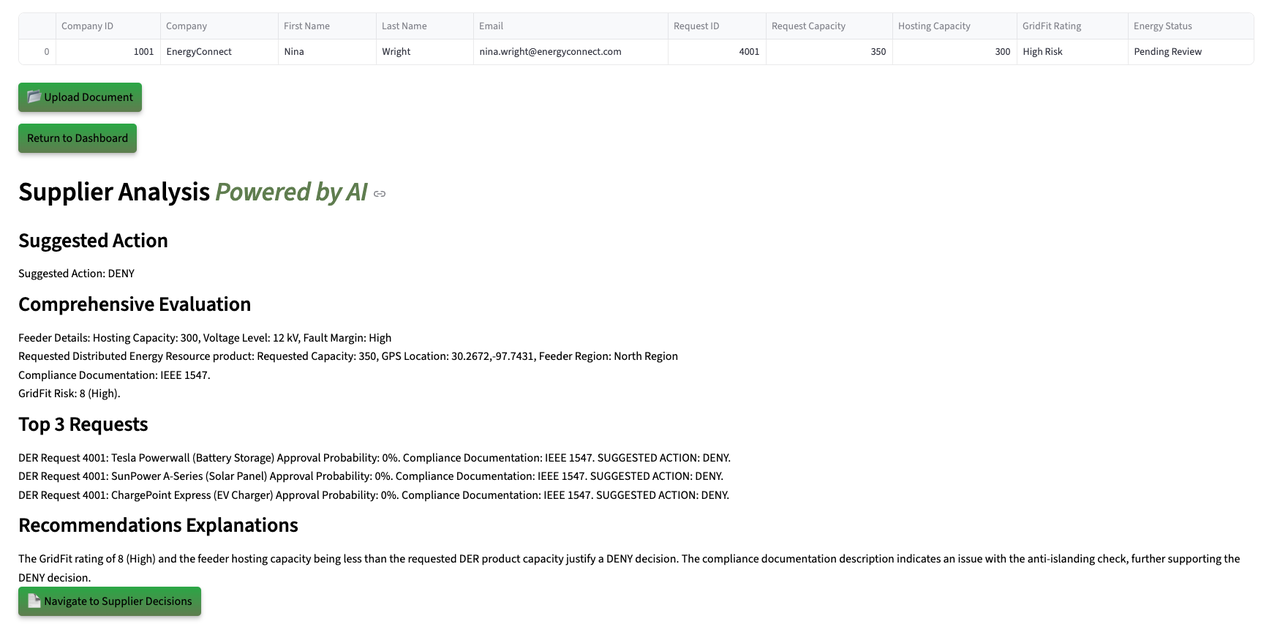
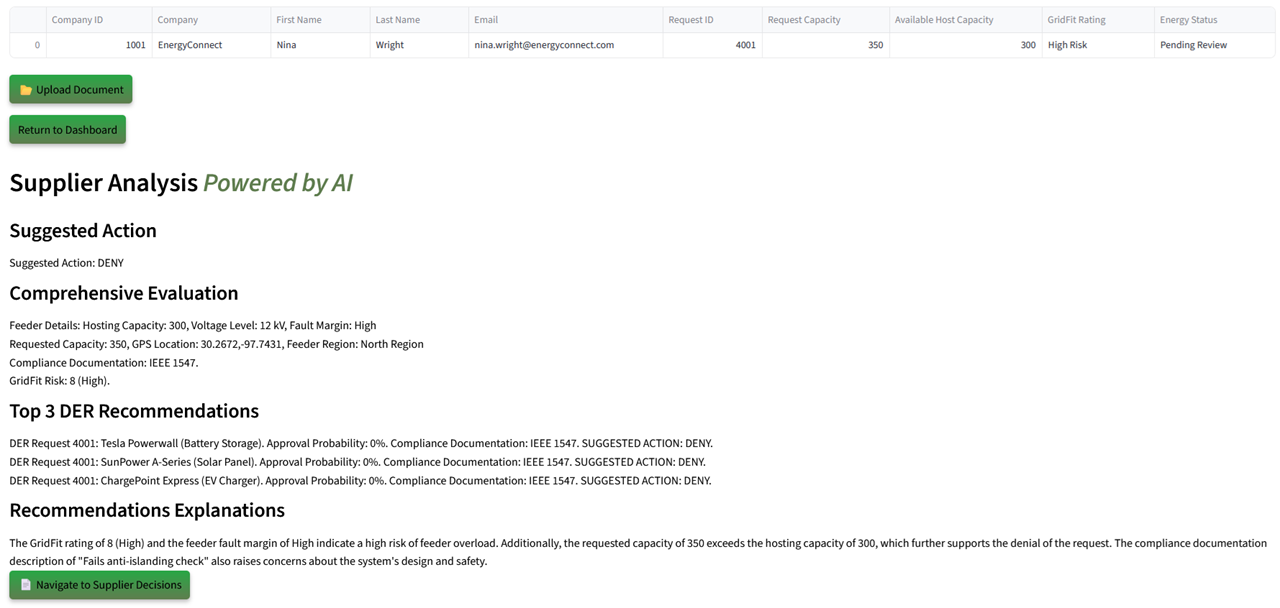
Squashed commit of the following:
commit 939772c35ec99cb6dfe08ff1df772436a100258b
Author: Hanna Rakhsha <hanna.rakhsha@oracle.com>
Date:   Sat Mar 21 12:27:19 2026 -0500

    Energy screenshot update (#702)

    Update of energy screenshot to match newly updated megalab code

commit 222984f4a294805c5772bf37fede78c3b275c34d
Author: Kirk Kirkconnell <2966377+NoSQLKnowHow@users.noreply.github.com>
Date:   Wed Mar 18 09:04:29 2026 -0400

    Update dev rel labs - Fixing stuff tester found and altering quizzes to be shorter, but more of them. (#700)

    * Adding back user story demo

    Had to change other md files that reference lab numbers to make sure they were correct.

    * reformatted images.

    * Trying to fix linter errors found.

    * Added estimated time

    * Fixing more linter errors

    * Fixing typos and such

    * Splitting up the quizzes

    * Finished quiz 1

    * Added note that content might be different in screenshot than in app.

    * Fixing quizzes and adding in the new badge.

    * Update introduction.md

commit 125a20ead43771c38b1be233f1c85cd6dfb439ea
Author: Teck Kian Choo <teck.kian.choo@oracle.com>
Date:   Tue Mar 17 18:01:23 2026 +0800

    WMS 12005:  Update Lab number of Integrate Oracle Analytics Cloud with Java Management Service (#701)

    AJ-29570: Lab number of Integrate Oracle Analytics Cloud with Java Management Service is wrong

    AJ-29570: Lab number of Integrate Oracle Analytics Cloud with Java Management Service is wrong
[…]

diff --git a/dev-ai-app-dev-rel/codingbasics/codingbasics.md b/dev-ai-app-dev-rel/codingbasics/codingbasics.md
@@ -199,7 +199,7 @@ Now, that we have established a connection, we can start creating our tables and
 
 ## Task 4: Create a JSON Duality View 
 
-Next, let's explore how we can use a **JSON Duality View** to query our new table. A JSON Duality View allows us to interact with data as JSON objects, i.e., data is stored as documents. Unlike a regular view, we can also update data in a JSON Duality View. Any updates will be reflected in our original relational tables. We will create a JSON Duality View using our newly created tables `customers_demo` and `orders_demo`. We are joining these two tables as we need the customer orders with the customer data. If this was two collections in a document database, this would be two seperate queries to the database and word in your app, or it'd mean duplicate data, depending on how you modeled your data in that database.
+Next, let's explore how we can use a **JSON Duality View** to query our new table. A JSON Duality View allows us to interact with data as JSON objects, i.e., data is stored as documents. Unlike a regular view, we can also update data in a JSON Duality View. Any updates will be reflected in our original relational tables. We will create a JSON Duality View using our newly created tables `customers_demo` and `orders_demo`. We are joining these two tables as we need the customer orders with the customer data. If this was two collections in a document database, this would be two separate queries to the database and word in your app, or it'd mean duplicate data, depending on how you modeled your data in that database.
 
 1. Before we create the **JSON Duality View**, we need to add some **constraints** to our new tables. Copy & paste the following code into a **new cell** and run it.
 
@@ -295,15 +295,15 @@ Next, let's explore how we can use a **JSON Duality View** to query our new tabl
 
     You notice that our code has some significant changes. We are now passing a parameter into our query, and we are formatting the output of our query. Let's have a closer look:
 
-    🔴 **`import json`** - This is a Python module that allows us to work with JSON. Remember: JSON Duality Views present data in document format, i.e., JSON.
+    * **`import json`** - This is a Python module that allows us to work with JSON. Remember: JSON Duality Views present data in document format, i.e., JSON.
 
-    🔴 **`query_dv(first_name)`** - This is a function that takes in a parameter and returns the result of our query. We are passing in `first_name` as a parameter, which we can use to filter our results.
+    * **`query_dv(first_name)`** - This is a function that takes in a parameter and returns the result of our query. We are passing in `first_name` as a parameter, which we can use to filter our results.
 
-    🔴 **`...WHERE JSON_EXISTS...`** - This is an Oracle AI Database function called `JSON_EXISTS`, which allows us to check if a specific key exists in a JSON object. In this case, we are checking if the `first_name` key exists in our JSON document. Essentially, `JSON_EXISTS` function enables us to use SQL syntax to check if a key exists in a JSON object. Remember, unlike rows in a relational table, JSON documents in the same collection don't all have to have the same shape.
+    * **`...WHERE JSON_EXISTS...`** - This is an Oracle AI Database function called `JSON_EXISTS`, which allows us to check if a specific key exists in a JSON object. In this case, we are checking if the `first_name` key exists in our JSON document. Essentially, `JSON_EXISTS` function enables us to use SQL syntax to check if a key exists in a JSON object. Remember, unlike rows in a relational table, JSON documents in the same collection don't all have to have the same shape.
 
-    🔴 **`json.dumps(raw_json, default=str, indent=4)`** - This is a Python function that formats our output. We are passing in the `raw_json` variable as an argument and formatting it with the `default=str` parameter.
+    * **`json.dumps(raw_json, default=str, indent=4)`** - This is a Python function that formats our output. We are passing in the `raw_json` variable as an argument and formatting it with the `default=str` parameter.
 
-    🔴 **`query_dv("Dan")`** - Here we are calling our query function again, but this time passing in the string `"Dan"` as a parameter. This will return all rows where `first_name` is equal to `"Dan"`. The result is displayed in JSON format, since it's coming from a JSON Duality View.
+    * **`query_dv("Dan")`** - Here we are calling our query function again, but this time passing in the string `"Dan"` as a parameter. This will return all rows where `first_name` is equal to `"Dan"`. The result is displayed in JSON format, since it's coming from a JSON Duality View.
 
     >**Note:** Notice that our output is a nicely formatted document that now not only includes our customer data but also all orders for that customer.
 
@@ -421,7 +421,7 @@ Next, let's update some data in our database using MongoDB syntax. Let's write a
     
 ## Task 8: Query relational tables to verify updates made through JSON Duality View
 
-The final step in our basic coding tour with Python and the Oracle AI Database is to query the two relational tables we created earlier. We just updated the JSON Duality view, so let's run a query on it to see if the changes were reflected. Remember that we created two functions in the beginning of this lab: `query_customers()` and `query_orders()`. Let's use these functions to get our data from MongoDB and update it with the new email address.
+The final step in our basic coding tour with Python and the Oracle AI Database is to query the two relational tables we created earlier. We just updated the JSON Duality view, so let's run a query on it to see if the changes were reflected. Remember that we created two functions in the beginning of this lab: `query_customers()` and `query_orders()`. Let's use these functions to get our data from MongoDB and verify the email address was updated.
 
 1. First, run the ``query_customers()` function in a new cell
 
@@ -476,15 +476,15 @@ The final step in our basic coding tour with Python and the Oracle AI Database i
 
     As you can see we included some new features in our function. Let's have a closer look:
 
-    🔴 **`import pandas as pd`** - This is a Python module that allows us to work with Pandas DataFrames. We will be using this module to format our output.
+    - **`import pandas as pd`** - This is a Python module that allows us to work with Pandas DataFrames. We will be using this module to format our output.
 
-    🔴 **` column_names`** - This is a list of column names returned by our query which is a list of strings included in the cursor object returned by our query. 
+    - **` column_names`** - This is a list of column names returned by our query which is a list of strings included in the cursor object returned by our query. 
 
-    🔴 **`df.head()`** - This is a method that returns that returns the result of the query including the column names. 
+    - **`df.head()`** - This is a method that returns that returns the result of the query including the column names. 
 
 ## Conclusion
 
-As a developer at Seer Holdings, you've just built the foundation for a GenAI-powered corporate approval system. We learned how to use Python and Oracle's Python driver `oracledb` to interact with Oracle AI Database's new features. You learned how to user the `cursor` object to execute SQL queries. Using the `cursor` object, you created a **JSON Duality View** and you even used some JSON functions to query documents using SQL syntax. Then, you also learned how to connect to the database using `pymongo` and retrieve data from a table in the database using **MongoDB syntax**. You created functions to update the **JSON Duality View** and you learned how these updates are also reflected in the underlying relational database tables.
+As a developer at Seer Holdings, you've just built the foundation for a GenAI-powered corporate approval system. We learned how to use Python and Oracle's Python driver `oracledb` to interact with Oracle AI Database's new features. You learned how to use the `cursor` object to execute SQL queries. Using the `cursor` object, you created a **JSON Duality View** and you even used some JSON functions to query documents using SQL syntax. Then, you also learned how to connect to the database using `pymongo` and retrieve data from a table in the database using **MongoDB syntax**. You created functions to update the **JSON Duality View** and you learned how these updates are also reflected in the underlying relational database tables.
 
 This architecture eliminates the need for duplicating data across platforms and simplifies how developers build AI-ready applications. Whether you're calling SQL, working with JSON, or speaking Mongo, you're always working with a single source of truth inside the Oracle Database.
 

diff --git a/java-management-oac-integration/connect-oac-to-atp/connect-oac-to-atp.md b/java-management-oac-integration/connect-oac-to-atp/connect-oac-to-atp.md
@@ -1,4 +1,4 @@
-# Lab 7: Connect Oracle Analytics Cloud (OAC) to Autonomous AI Database
+# Lab 5: Connect Oracle Analytics Cloud (OAC) to Autonomous AI Database
 
 ## Introduction
 
@@ -20,17 +20,17 @@ In this lab, you will configure Oracle Analytics Cloud (OAC) to connect to your 
 ## Task 1: Prepare Autonomous AI Database Connection Credentials
 
 1. In the Oracle Cloud Console, open the navigation menu, click **Oracle AI Database**, then select **Autonomous AI Database** .
-   ![image of configure autonomous ai database](../common/images/configure-autonomous-ai-database.png)
+    ![image of configure autonomous ai database](../common/images/configure-autonomous-ai-database.png)
 2. In the database list, locate your Autonomous AI Database and click the name to view its details.
-   ![image of database list](./images/database-list.png)
+    ![image of database list](./images/database-list.png)
 3. Click **Database Connection**
-   ![image of database connection](./images/database-connection.png)
+    ![image of database connection](./images/database-connection.png)
 4. Click **Download Wallet** to start the download for the client credentials zip file.
-   ![image of database connection download wallet](./images/database-connection-download-wallet.png)
+    ![image of database connection download wallet](./images/database-connection-download-wallet.png)
 5. When prompted, create and enter a strong password in **Password** and **Confirm password** fields.
-   *(You will use this password to access the wallet when configuring the OAC connection.)*
+    *(You will use this password to access the wallet when configuring the OAC connection.)*
 6. Click **Download** to save the wallet (.zip) file to your computer.
-   ![image of database connection download wallet details](./images/database-connection-download-wallet-details.png)
+    ![image of database connection download wallet details](./images/database-connection-download-wallet-details.png)
 
 *Keep your downloaded wallet and password safe. You will use these in the next steps to connect OAC to your Autonomous AI Database.*
 
@@ -38,34 +38,34 @@ In this lab, you will configure Oracle Analytics Cloud (OAC) to connect to your 
 
 1. On the OAC home page, click page menu in the upper left side.
 2. Select **Data**.
-   ![image of analytics cloud config data](../common/images/analytics-cloud-config-data.png)
+    ![image of analytics cloud config data](../common/images/analytics-cloud-config-data.png)
 3. Over the imported connection, on the right side, click actions menu and click **Inspect** to view details.
-   ![image of analytics cloud data connection inspect](./images/analytics-cloud-data-connection-inspect.png)
+    ![image of analytics cloud data connection inspect](./images/analytics-cloud-data-connection-inspect.png)
 4. Complete the connection form:
-   * **Connection Name**: Enter a name (e.g., `JMS_AAID_EXPORT`).
-   * **Description**: (Optional) Add a brief description.
-   * **Username**: Enter your database user (e.g., `JMS_EXPORT` or schema user).
-   * **Password**: Enter your database user’s password.
-   * **Client Credentials**: Upload the wallet (.zip) you downloaded earlier.
-   * **Wallet Password**: Enter the password you set when downloading the wallet.
-   * **Service Name**: Select the appropriate TNS alias for your workload (`HIGH`, `LOW`, or `TP`).
-   ![image of analytics cloud data connection](images/analytics-cloud-data-connection.png)
+    * **Connection Name**: Enter a name (e.g., `JMS_AAID_EXPORT`).
+    * **Description**: (Optional) Add a brief description.
+    * **Username**: Enter your database user (e.g., `JMS_EXPORT` or schema user).
+    * **Password**: Enter your database user’s password.
+    * **Client Credentials**: Upload the wallet (.zip) you downloaded earlier.
+    * **Wallet Password**: Enter the password you set when downloading the wallet.
+    * **Service Name**: Select the appropriate TNS alias for your workload (`HIGH`, `LOW`, or `TP`).
+    ![image of analytics cloud data connection](images/analytics-cloud-data-connection.png)
 5. Click **Save** to create the connection.
 
 ## Task 3: Verify connection to AI Database reloading data
 
 1. Go to Datasets.
 2. Over the imported dataset, on the right side, click actions menu and click **Inspect** to view details.
-   ![image of analytics cloud dataset inspect](images/analytics-cloud-dataset-inspect.png)
+    ![image of analytics cloud dataset inspect](images/analytics-cloud-dataset-inspect.png)
 3. On the left panel click **Reload Data**.
 4. Click the button **Run Now**.
-   ![image of analytics cloud dataset reload data](images/analytics-cloud-dataset-reload-data.png)
+    ![image of analytics cloud dataset reload data](images/analytics-cloud-dataset-reload-data.png)
 5. The Dataset is queued for reloading and will complete in the background. Click **Close**.
-   ![image of analytics cloud dataset reload data close](images/analytics-cloud-dataset-reload-data-close.png)
+    ![image of analytics cloud dataset reload data close](images/analytics-cloud-dataset-reload-data-close.png)
 6. On the left panel click **History**. The Status could be **In Queue** or **Running**.
-   ![image of analytics cloud dataset reload data inqueue](images/analytics-cloud-dataset-reload-data-inqueue.png)
+    ![image of analytics cloud dataset reload data inqueue](images/analytics-cloud-dataset-reload-data-inqueue.png)
 7. Wait until the execution ends and the status is **Completed**.
-   ![image of analytics cloud dataset reload data complete](images/analytics-cloud-dataset-reload-data-complete.png)
+    ![image of analytics cloud dataset reload data complete](images/analytics-cloud-dataset-reload-data-complete.png)
 
 ## Next Steps
 

diff --git a/dev-ai-app-dev-rel/quiz/quiz2.md b/dev-ai-app-dev-rel/quiz/quiz2.md
@@ -1,0 +1,50 @@
+# Quiz
+
+## Introduction
+
+Test your knowledge of building a RAG and agentic! This quiz covers key concepts from the lab including Vector Search, embeddings, Python integration, and AI-powered recommendation systems.
+
+Estimated Time: 5 minutes
+
+```quiz-config
+    passing: 80
+    badge: images/badge1.png
+```
+
+### Objectives
+
+* Pass the quiz and get your skills badge!
+
+### Quiz Questions
+
+```quiz score
+Q: What is the primary purpose of RAG (Retrieval-Augmented Generation)?
+- To replace the need for a database entirely
+- To build a better augmented
+* To retrieve and attach physical hardware components to an LLM, thus making your own ghost in the shell. Major Kusanagi would be so proud
+* To augment an LLM's responses by retrieving and providing relevant data that exists outside its training knowledge
+
+Q: What is an embedding model?
+- A fashion model with thier own line of comfy bedding.
+- An Airfix model of an RAF Spitfire!
+* A neural network that encodes text (words, sentences, or documents) as dense numerical vectors (e.g. 1,536 dimensions).
+> JSON 
+
+Q: What role does chunking do?
+- It's a hidden function that creates fresh, chunky dog food ondemand
+- Encrypts sensitive customer data
+* Splits text into smaller chunks to generate vector embeddings used with vector indexes or hybrid vector indexes.
+- Creates backup copies of database tables in bite-sized chunks
+> Chunking is a critical mechanism as embedding models have fixed token limits and, more importantly, smaller, semantically focused chunks produce more precise embeddings that match what a user is searching for rather than burying the relevant signal in a sea of unrelated context.
+
+Q: What is vector quantization?
+- It's what happens when your SatNav can't decide between two routes and just picks a third one at random
+* When high-dimensional vectors are compressed by mapping them to a smaller set of representative codewords
+- The process by which quantum physicists determine exactly how many vectors can fit in a lab coat pocket before Schrödinger's cat knocks them all off the table
+- A government program that reduces the number of opinions allowed in a meeting by clustering similar ones together
+> With vector quantization, you get "compression," but are trading slight precision loss for faster search and reduced storage.
+```
+
+## Acknowledgements
+* **Authors** - Kirk Kirkconnell
+* **Last Updated By/Date** - Kirk Kirkconnell, March 2026

diff --git a/dev-ai-app-dev-rel/quiz/quiz1.md b/dev-ai-app-dev-rel/quiz/quiz1.md
@@ -1,0 +1,62 @@
+# Quiz on the Fundamentals of Data for AI
+
+## Introduction
+
+Test your knowledge of the Fundamentals of Data for AI!
+
+Estimated Time: ~5 minutes
+
+```quiz-config
+    passing: 80
+    badge: images/badge1.png
+```
+
+### Objectives
+
+* Pass the quiz and get your "Fundamentals of Data for AI" skills badge!
+
+### Quiz Questions
+
+```quiz score
+
+Q: What is the core tenant of the Unified Model Theory(UMT)?
+* Model your canonical schema for data integrity, security, etc., but design data projections for application access patterns.
+- All data, when viewed through the correct access surface at 9am, transforms into coffee.
+- Eliminating polyglot persistence requires passing through five stages of database grief.
+> The goal of UMT is to enable you to model a canonical schema, but project that data in whichever shapes needed by consumers.
+
+Q: What is the default category of vector indexes in Oracle AI Database?
+- IVF (Inverted File)
+* HNSW (Hierarchical Navigable Small Worlds )
+- Token Ring
+- OSON
+> HNSW is the default as it's the best general-purpose approximate nearest neighbor (ANN) algorithm available today. It has a good recall accuracy to speed ratio for most use cases.
+
+Q: What's likely the best data type to store embeddings in Oracle AI Database?
+- NUMBER
+- BLOBOFREGRET
+* VECTOR
+- VARCHAR2
+> Unless you have a solid reason not to, you should be using VECTOR data type to store vector embeddings.
+
+Q: True or False: In Oracle, you can query JSON collections, relational tables, and graph traversals all in one SQL statement?
+* True
+- False
+> It's true. You can even add a WHERE clause that performs a vector search to that same SQL statement.
+
+Q: What's the likely data type you should store a JSON document in Oracle?
+- CLOB
+- VARCHAR2
+* JSON
+> Your default for storing JSON should likely be a JSON data type, but it really depends on how large of a document you're storing and your use case.
+
+Q: How does Cosine similarity measure distance?
+- It gets out a tape measure and...
+- It measures concise distance between vectors
+* It measures the angle between vectors
+
+```
+
+## Acknowledgements
+* **Authors** - Kirk Kirkconnell
+* **Last Updated By/Date** - Kirk Kirkconnell, March 2026

diff --git a/dev-ai-app-dev-rel/introduction/introduction.md b/dev-ai-app-dev-rel/introduction/introduction.md
@@ -4,9 +4,9 @@
 
 In this set of labs, we'll look at SeerGroup, a global conglomerate with multiple divisions. Each division has various transactions, documents, and customer data. Their challenges are like many other businesses: decisions take too long, outcomes are not always accurate enough, or things get confusing because data is scattered across silos and systems, and "we've always done it that way" attitude has crept in. Also like many, they want to see what, if any, help AI-driven apps can be to their internal and external processes.
 
-This workshop shows how SeerGroup tackles this. By keeping data in one place and using more modern tools and framworks, such as LangChain, they are working to cut out multiple integrations to give analysts, engineers, and managers a **single platform** for smarter and more informed approvals, efficient and more accurate investigations, and clearer customer answers and outcomes.
+This workshop shows how SeerGroup tackles this. By keeping data in one place and using more modern tools and frameworks, such as LangChain, they are working to cut out multiple integrations to give analysts, engineers, and managers a **single platform** for smarter and more informed approvals, efficient and more accurate investigations, and clearer customer answers and outcomes.
 
-Estimated Workshop Time: 140 minutes
+Estimated Workshop Time: 180 minutes
 
 ✅ **Start with the demo! (Lab 1)**
 

diff --git a/dev-ai-app-dev-rel/quiz/quiz3.md b/dev-ai-app-dev-rel/quiz/quiz3.md
@@ -1,0 +1,43 @@
+# Quiz
+
+## Introduction
+
+Test your knowledge of building a RAG and agentic! This quiz covers key concepts from the lab including Vector Search, embeddings, Python integration, and AI-powered recommendation systems.
+
+Estimated Time: 5 minutes
+
+```quiz-config
+    passing: 80
+    badge: images/badge1.png
+```
+
+### Objectives
+
+* Pass the quiz and get your skills badge!
+
+### Quiz Questions
+
+```quiz score
+Q: What is the primary purpose of RAG (Retrieval-Augmented Generation)?
+- To replace the need for a database entirely
+- To build a better augmented
+* To retrieve and attach physical hardware components to an LLM, thus making your own ghost in the shell. Major Kusanagi would be so proud
+* To augment an LLM's responses by retrieving and providing relevant data that exists outside its training knowledge
+
+Q: True or False: Oracle AI Database enables you to create embeddings directly within the database
+* True
+- False
+- Shmaybe
+
+Q: Which Python library is used to connect to Oracle AI Database in this lab?
+- psycopg2
+* oracledb
+- pymongo
+- sqlalchemy
+> The oracledb library can be easily grabbed using `pip install oracledb`
+
+```
+
+## Acknowledgements
+* **Authors** - Kirk Kirkconnell
+* **Last Updated By/Date** - Kirk Kirkconnell, March 2026

diff --git a/dev-ai-app-dev-rel/oraclemcp/oraclemcp.md b/dev-ai-app-dev-rel/oraclemcp/oraclemcp.md
@@ -120,7 +120,7 @@ Launch LangChain as the client to connect to Oracle MCP, discover tools, and run
 
 ## Task 3: (Optional) Use LangChain as the Oracle MCP Runner with a Reasoning Agent
 
-Run a reasoning agent—a more advanced MCP client that plans, explains, and justifies each step before acting. The reasoning agent typically runs longer and can show why it chose each tool and how the decision flow unfolds, depending on model settings and tracing configuration. This is useful for debugging, auditing, and optimizing multi-tool workflows in production.
+Run a reasoning agent, a more advanced MCP client that plans, explains, and justifies each step before acting. The reasoning agent typically runs longer and can show why it chose each tool and how the decision flow unfolds, depending on model settings and tracing configuration. This is useful for debugging, auditing, and optimizing multi-tool workflows in production.
 
 Why Does It Matter?
 
@@ -156,6 +156,8 @@ Why Does It Matter?
     * Execute the query: *Show all LOAN_APPLICATIONS*.
 
 4. Expected outcome:
+    
+    **Note:** The content generated when you run this may differ from the screenshots in this section.
 
     ![response2](./images/agentresponse2.png =50%x*)
 

diff --git a/dev-ai-app-dev-rel/connect-to-env/connect-to-env.md b/dev-ai-app-dev-rel/connect-to-env/connect-to-env.md
@@ -50,7 +50,7 @@ You will use a Jupyter Notebook in JupyterLab to build and test the return autho
 
 ## Conclusion
 
-In this lab you logged into the **IDE Development Environment** for Jupyter Labs. You reviewed different elements from the environment like **File Browser** and **Launcher**. Lastly, you were introduced to concepts to allow you to get started running code smoothly like **executing code blocks** and **outputs and warnings**. 
+In this lab you logged into the JupyterLab **IDE**. You reviewed different elements from the environment like **File Browser** and **Launcher**. Lastly, you were introduced to concepts to allow you to get started running code smoothly like **executing code blocks** and **outputs and warnings**. 
 
 
 ## Acknowledgements

diff --git a/dev-ai-app-dev-rel/build/build.md b/dev-ai-app-dev-rel/build/build.md
@@ -104,7 +104,7 @@ You will query customer data from the `customer_returns_dv` JSON duality view, w
 
 - **Define a function**: Create a reusable function `fetch_customer_data` to query the database by customer ID, extracting the JSON data for a specific customer.
 
-- **Use an example**: Fetch data for customer `1000` (Alice Smith) to demonstrate the process.
+- **Use an example**: Fetch data for customer `1001` (Alice Smith) to demonstrate the process.
 
 - **Display the results**: Format the retrieved data into a pandas DataFrame for a clear, tabular presentation, showing key details like name, LifeTime Spend, Return Amount, and Loyalty Tier.
 

diff --git a/README.md b/README.md
@@ -15,7 +15,7 @@ Visit [LiveLabs](https://livelabs.oracle.com) now to get started.  Workshops are
 Pull requests are currently not being accepted. See [CONTRIBUTING](CONTRIBUTING.md) for details.
 
 ## License
-Copyright (c) 2014, 2025 Oracle and/or its affiliates
+Copyright (c) 2014, 2026 Oracle and/or its affiliates
 The Universal Permissive License (UPL), Version 1.0
 See [LICENSE](LICENSE.txt) for details.
 
